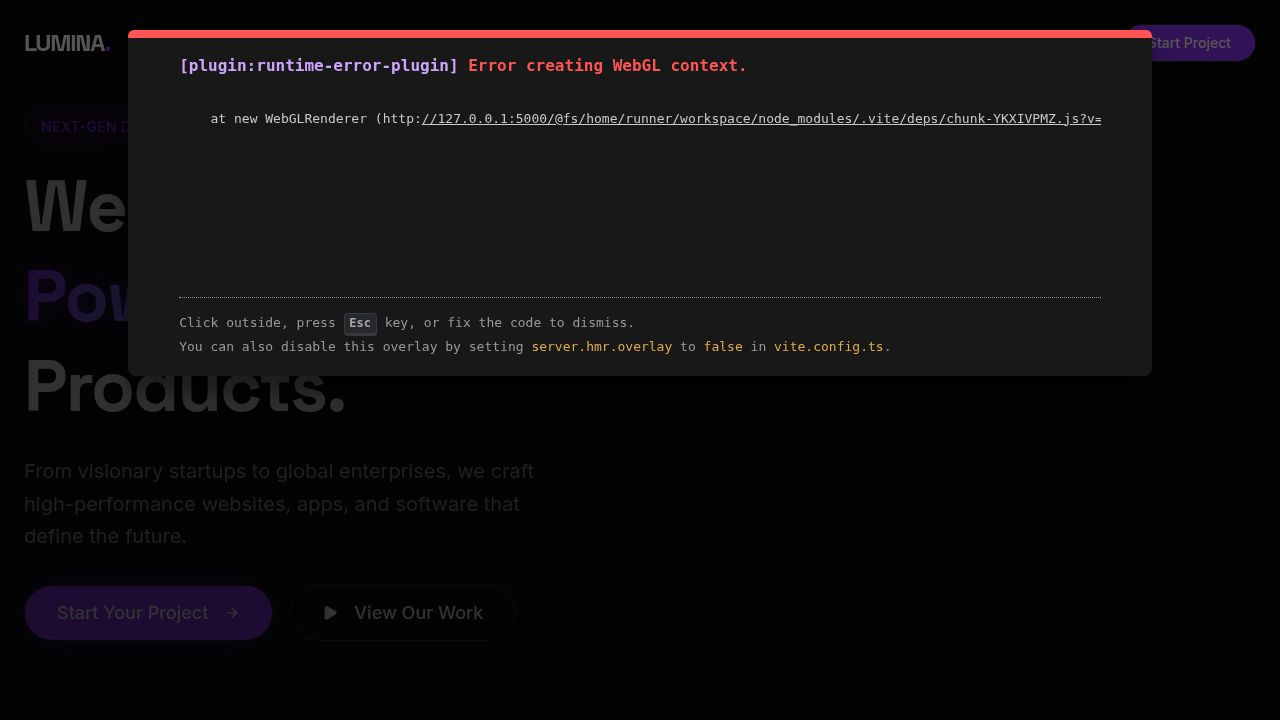
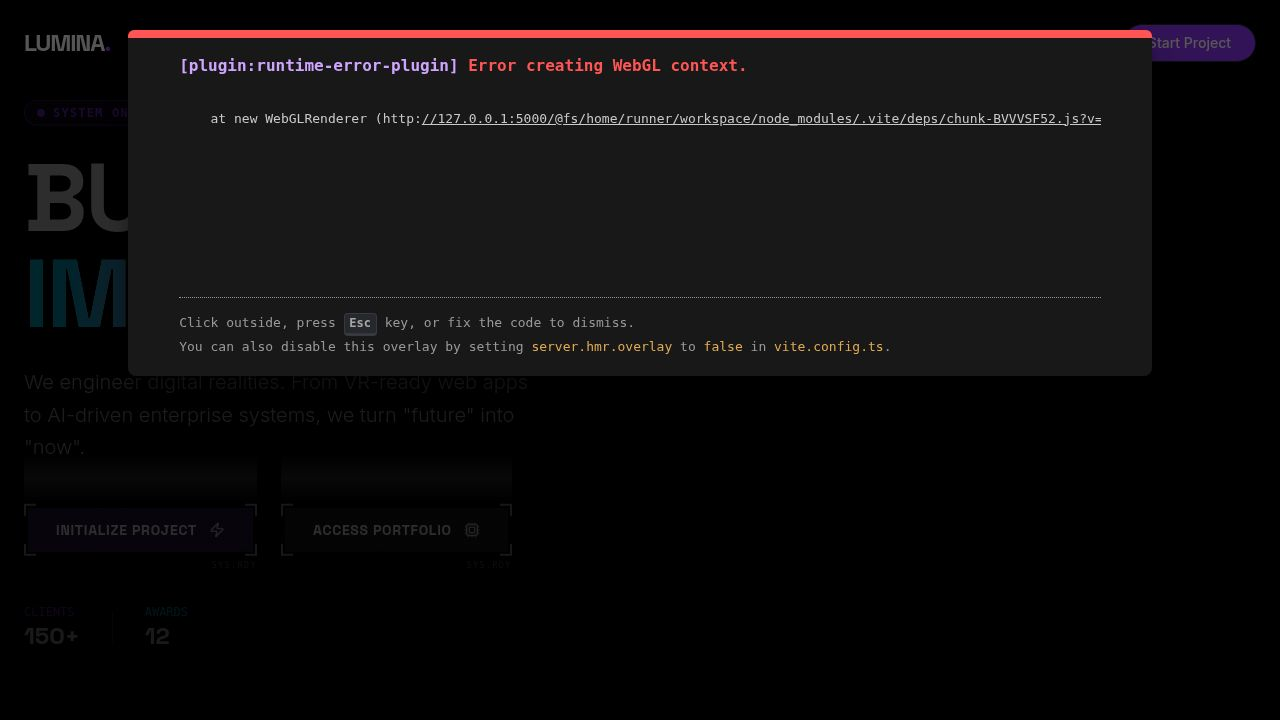
Enhance website with futuristic 3D elements and interactive holographic buttons
Introduce a new HolographicButton component, enhance the 3D scene with a moving grid and floating geometry, and update the hero section with a 'System Online' status and gradient animated headline.

Replit-Commit-Author: Agent
Replit-Commit-Session-Id: 62179b3c-a448-4548-ba3e-8a49a3264e93
Replit-Commit-Checkpoint-Type: full_checkpoint
Replit-Commit-Event-Id: 106dd3c8-82a2-464e-b898-4956af63f821
Replit-Commit-Screenshot-Url: https://storage.googleapis.com/screenshot-production-us-central1/b6b3e9dc-332f-4f14-a488-fbce4b9bd46f/62179b3c-a448-4548-ba3e-8a49a3264e93/L3Idws9
Replit-Helium-Checkpoint-Created: true

diff --git a/client/src/components/hero.tsx b/client/src/components/hero.tsx
@@ -1,16 +1,17 @@
 import { motion } from "framer-motion";
-import { ArrowRight, Play } from "lucide-react";
-import { Button } from "@/components/ui/button";
+import { ArrowRight, Play, Cpu, Zap } from "lucide-react";
+import { HolographicButton } from "@/components/ui/holographic-button";
 import Scene from "./scene";
 
 export default function Hero() {
   return (
-    <section className="relative w-full h-screen flex items-center justify-center overflow-hidden">
+    <section className="relative w-full h-screen flex items-center justify-center overflow-hidden bg-black">
       {/* 3D Background */}
       <Scene />
       
-      {/* Gradient Overlay for Readability */}
-      <div className="absolute inset-0 bg-gradient-to-b from-background/10 via-background/50 to-background z-10 pointer-events-none" />
+      {/* Vignette & Gradient Overlay */}
+      <div className="absolute inset-0 bg-gradient-to-t from-black via-transparent to-black/40 z-10 pointer-events-none" />
+      <div className="absolute inset-0 bg-[radial-gradient(circle_at_center,transparent_0%,rgba(0,0,0,0.6)_100%)] z-10 pointer-events-none" />
 
       {/* Content */}
       <div className="container relative z-20 px-6 mx-auto text-center md:text-left grid md:grid-cols-2 gap-12 items-center">
@@ -20,43 +21,49 @@ export default function Hero() {
           transition={{ duration: 0.8, ease: "easeOut" }}
           className="max-w-3xl"
         >
-          <div className="inline-block mb-4 px-4 py-1.5 rounded-full border border-primary/30 bg-primary/10 backdrop-blur-sm">
-            <span className="text-primary text-sm font-semibold tracking-wide uppercase">
-              Next-Gen Digital Agency
-            </span>
+          <div className="flex items-center gap-2 mb-6">
+             <div className="px-3 py-1 rounded-full border border-primary/50 bg-primary/10 backdrop-blur-md flex items-center gap-2">
+                <div className="w-2 h-2 rounded-full bg-primary animate-pulse" />
+                <span className="text-primary text-xs font-mono font-bold tracking-widest uppercase">
+                  System Online v2.0
+                </span>
+             </div>
           </div>
           
-          <h1 className="text-5xl md:text-7xl font-bold font-display tracking-tight leading-tight mb-6">
-            We Build <span className="text-transparent bg-clip-text bg-gradient-to-r from-primary to-secondary text-glow">Powerful</span> Digital Products.
+          <h1 className="text-5xl md:text-8xl font-bold font-display tracking-tight leading-none mb-6 text-transparent bg-clip-text bg-gradient-to-br from-white via-white to-white/50 drop-shadow-2xl">
+            BUILD THE <br />
+            <span className="text-transparent bg-clip-text bg-gradient-to-r from-cyan-400 to-purple-600 animate-gradient-x">IMPOSSIBLE</span>
           </h1>
           
-          <p className="text-lg md:text-xl text-muted-foreground mb-8 max-w-lg leading-relaxed">
-            From visionary startups to global enterprises, we craft high-performance websites, apps, and software that define the future.
+          <p className="text-lg md:text-xl text-gray-400 mb-10 max-w-lg leading-relaxed font-light">
+            We engineer digital realities. From VR-ready web apps to AI-driven enterprise systems, we turn "future" into "now".
           </p>
           
-          <div className="flex flex-col sm:flex-row gap-4 justify-center md:justify-start">
-            <Button 
-              size="lg" 
-              className="bg-primary hover:bg-primary/90 text-white rounded-full px-8 h-14 text-lg shadow-[0_0_20px_rgba(139,44,245,0.3)]"
-            >
-              Start Your Project
-              <ArrowRight className="ml-2 w-5 h-5" />
-            </Button>
-            <Button 
-              variant="outline" 
-              size="lg" 
-              className="border-white/20 hover:bg-white/10 text-white rounded-full px-8 h-14 text-lg backdrop-blur-sm"
-            >
-              <Play className="mr-2 w-4 h-4 fill-current" />
-              View Our Work
-            </Button>
+          <div className="flex flex-col sm:flex-row gap-6 justify-center md:justify-start">
+            <HolographicButton variant="primary" icon={<Zap className="w-4 h-4" />}>
+              Initialize Project
+            </HolographicButton>
+            
+            <HolographicButton variant="secondary" icon={<Cpu className="w-4 h-4" />}>
+              Access Portfolio
+            </HolographicButton>
+          </div>
+          
+          <div className="mt-12 flex items-center gap-8 opacity-60">
+             <div className="flex flex-col">
+                <span className="text-xs font-mono text-primary">CLIENTS</span>
+                <span className="text-2xl font-bold font-display">150+</span>
+             </div>
+             <div className="w-px h-8 bg-white/20" />
+             <div className="flex flex-col">
+                <span className="text-xs font-mono text-cyan-400">AWARDS</span>
+                <span className="text-2xl font-bold font-display">12</span>
+             </div>
           </div>
         </motion.div>
 
-        {/* Right side is visual (handled by 3D scene), but we can add floating UI elements here for depth */}
-        <div className="hidden md:block relative h-full">
-           {/* Abstract UI Elements could go here if not fully relying on 3D */}
-        </div>
+        {/* Right side spacer for 3D elements */}
+        <div className="hidden md:block relative h-full"></div>
       </div>
       
       {/* Scroll Indicator */}
@@ -66,8 +73,8 @@ export default function Hero() {
         transition={{ delay: 1, duration: 1 }}
         className="absolute bottom-10 left-1/2 -translate-x-1/2 z-20 flex flex-col items-center gap-2"
       >
-        <span className="text-xs text-white/50 uppercase tracking-widest">Scroll</span>
-        <div className="w-[1px] h-12 bg-gradient-to-b from-primary to-transparent" />
+        <span className="text-[10px] font-mono text-white/40 uppercase tracking-[0.3em] animate-pulse">Scroll to Explore</span>
+        <div className="w-[1px] h-16 bg-gradient-to-b from-primary via-cyan-500 to-transparent opacity-50" />
       </motion.div>
     </section>
   );

diff --git a/client/src/components/scene.tsx b/client/src/components/scene.tsx
@@ -1,6 +1,6 @@
 import { Canvas, useFrame } from "@react-three/fiber";
-import { Float, MeshDistortMaterial, PerspectiveCamera } from "@react-three/drei";
-import { useRef } from "react";
+import { Float, MeshDistortMaterial, PerspectiveCamera, Grid, Stars, Sparkles, Text } from "@react-three/drei";
+import { useRef, useMemo } from "react";
 import * as THREE from "three";
 
 function AnimatedSphere() {
@@ -8,65 +8,129 @@ function AnimatedSphere() {
 
   useFrame((state) => {
     if (meshRef.current) {
-      meshRef.current.rotation.x = state.clock.getElapsedTime() * 0.2;
-      meshRef.current.rotation.y = state.clock.getElapsedTime() * 0.3;
+      meshRef.current.rotation.x = state.clock.getElapsedTime() * 0.15;
+      meshRef.current.rotation.y = state.clock.getElapsedTime() * 0.25;
     }
   });
 
   return (
-    <Float speed={2} rotationIntensity={1} floatIntensity={2}>
-      <mesh ref={meshRef} position={[2, 0, 0]} scale={1.8}>
-        <icosahedronGeometry args={[1, 15]} />
-        <MeshDistortMaterial
+    <Float speed={2} rotationIntensity={1} floatIntensity={1.5}>
+      <mesh ref={meshRef} position={[2, 0, 0]} scale={2}>
+        <icosahedronGeometry args={[1, 4]} /> {/* Lower detail for wireframe look */}
+        <meshStandardMaterial
           color="#8b2cf5"
+          wireframe
+          transparent
+          opacity={0.3}
+          emissive="#8b2cf5"
+          emissiveIntensity={0.5}
+        />
+      </mesh>
+      {/* Inner solid core */}
+      <mesh position={[2, 0, 0]} scale={1.2}>
+         <icosahedronGeometry args={[1, 15]} />
+         <MeshDistortMaterial
+          color="#00ffff"
           attach="material"
-          distort={0.4}
-          speed={2}
-          roughness={0.2}
-          metalness={0.8}
+          distort={0.6}
+          speed={3}
+          roughness={0.1}
+          metalness={1}
+          envMapIntensity={1}
         />
       </mesh>
     </Float>
   );
 }
 
-function FloatingCube({ position, color }: { position: [number, number, number]; color: string }) {
+function FloatingGeometry({ position, color, type }: { position: [number, number, number]; color: string, type: 'box' | 'torus' | 'cone' }) {
   const meshRef = useRef<THREE.Mesh>(null);
   
   useFrame((state) => {
     if (meshRef.current) {
       meshRef.current.rotation.x += 0.01;
-      meshRef.current.rotation.y += 0.01;
+      meshRef.current.rotation.y += 0.015;
     }
   });
 
+  const Geometry = useMemo(() => {
+    switch(type) {
+        case 'box': return <boxGeometry args={[0.5, 0.5, 0.5]} />;
+        case 'torus': return <torusGeometry args={[0.3, 0.1, 16, 32]} />;
+        case 'cone': return <coneGeometry args={[0.3, 0.6, 32]} />;
+        default: return <boxGeometry args={[0.5, 0.5, 0.5]} />;
+    }
+  }, [type]);
+
   return (
-    <Float speed={4} rotationIntensity={2} floatIntensity={1}>
+    <Float speed={3} rotationIntensity={2} floatIntensity={1}>
       <mesh ref={meshRef} position={position}>
-        <boxGeometry args={[0.5, 0.5, 0.5]} />
-        <meshStandardMaterial color={color} roughness={0.1} metalness={0.8} transparent opacity={0.8} />
+        {Geometry}
+        <meshPhysicalMaterial 
+            color={color} 
+            roughness={0} 
+            metalness={0.8} 
+            transmission={0.5} 
+            thickness={1}
+            clearcoat={1}
+        />
       </mesh>
     </Float>
   );
 }
 
+function MovingGrid() {
+    const gridRef = useRef<THREE.Mesh>(null);
+    useFrame((state) => {
+        if(gridRef.current) {
+            gridRef.current.position.z = (state.clock.getElapsedTime() * 0.5) % 1;
+        }
+    })
+    return (
+        <group rotation={[Math.PI / 2.5, 0, 0]} position={[0, -2, 0]}>
+            <Grid 
+                ref={gridRef}
+                args={[20, 20]} 
+                cellSize={0.5} 
+                cellThickness={0.5} 
+                cellColor="#8b2cf5" 
+                sectionSize={2} 
+                sectionThickness={1} 
+                sectionColor="#00ffff" 
+                fadeDistance={15} 
+                fadeStrength={1} 
+                infiniteGrid
+            />
+        </group>
+    )
+}
+
 export default function Scene() {
   return (
     <div className="absolute inset-0 z-0">
-      <Canvas>
-        <PerspectiveCamera makeDefault position={[0, 0, 5]} />
-        <ambientLight intensity={0.5} />
-        <pointLight position={[10, 10, 10]} intensity={1.5} color="#00ffff" />
-        <pointLight position={[-10, -10, -10]} intensity={0.5} color="#8b2cf5" />
+      <Canvas gl={{ antialias: true, toneMapping: THREE.ReinhardToneMapping, toneMappingExposure: 1.5 }}>
+        <PerspectiveCamera makeDefault position={[0, 0, 6]} fov={50} />
         
+        <color attach="background" args={['#050505']} />
+        <fog attach="fog" args={['#050505', 5, 20]} />
+
+        <ambientLight intensity={0.2} />
+        <pointLight position={[10, 10, 10]} intensity={2} color="#00ffff" />
+        <pointLight position={[-10, -5, -10]} intensity={2} color="#8b2cf5" />
+        <spotLight position={[0, 10, 0]} intensity={1} angle={0.5} penumbra={1} color="#ffffff" />
+
+        <Stars radius={100} depth={50} count={5000} factor={4} saturation={0} fade speed={1} />
+        <Sparkles count={50} scale={5} size={2} speed={0.4} opacity={0.5} color="#00ffff" />
+
         <AnimatedSphere />
         
-        <FloatingCube position={[-2, 1.5, -1]} color="#00ffff" />
-        <FloatingCube position={[-2.5, -1, 0.5]} color="#8b2cf5" />
-        <FloatingCube position={[3, 2, -2]} color="#00ffff" />
-        <FloatingCube position={[1, -2, -1]} color="#8b2cf5" />
+        <FloatingGeometry position={[-2.5, 1.5, -1]} color="#00ffff" type="torus" />
+        <FloatingGeometry position={[-2, -1, 0.5]} color="#8b2cf5" type="box" />
+        <FloatingGeometry position={[3.5, 2, -2]} color="#00ffff" type="cone" />
+        <FloatingGeometry position={[1.5, -2.5, -1]} color="#8b2cf5" type="torus" />
         
-        {/* Background Particles could go here */}
+        <MovingGrid />
+        
       </Canvas>
     </div>
   );

diff --git a/client/src/components/ui/holographic-button.tsx b/client/src/components/ui/holographic-button.tsx
@@ -1,0 +1,88 @@
+import { motion, HTMLMotionProps } from "framer-motion";
+import { useState } from "react";
+import { cn } from "@/lib/utils";
+
+interface HolographicButtonProps extends HTMLMotionProps<"button"> {
+  children: React.ReactNode;
+  variant?: "primary" | "secondary";
+  className?: string;
+  icon?: React.ReactNode;
+}
+
+export function HolographicButton({ 
+  children, 
+  variant = "primary", 
+  className,
+  icon,
+  ...props 
+}: HolographicButtonProps) {
+  const [isHovered, setIsHovered] = useState(false);
+
+  const isPrimary = variant === "primary";
+  
+  return (
+    <motion.button
+      className={cn(
+        "relative group px-8 py-4 bg-transparent border-0 outline-none cursor-pointer overflow-visible",
+        className
+      )}
+      onHoverStart={() => setIsHovered(true)}
+      onHoverEnd={() => setIsHovered(false)}
+      whileHover={{ scale: 1.05 }}
+      whileTap={{ scale: 0.95 }}
+      {...props}
+    >
+      {/* HUD Corner Brackets */}
+      <div className="absolute top-0 left-0 w-3 h-3 border-t-2 border-l-2 border-white/50 transition-all duration-300 group-hover:w-full group-hover:h-full group-hover:border-primary/80" />
+      <div className="absolute top-0 right-0 w-3 h-3 border-t-2 border-r-2 border-white/50 transition-all duration-300 group-hover:w-full group-hover:h-full group-hover:border-primary/80" />
+      <div className="absolute bottom-0 left-0 w-3 h-3 border-b-2 border-l-2 border-white/50 transition-all duration-300 group-hover:w-full group-hover:h-full group-hover:border-primary/80" />
+      <div className="absolute bottom-0 right-0 w-3 h-3 border-b-2 border-r-2 border-white/50 transition-all duration-300 group-hover:w-full group-hover:h-full group-hover:border-primary/80" />
+
+      {/* Background with Glass Effect */}
+      <div className={cn(
+        "absolute inset-1 backdrop-blur-md transition-all duration-300",
+        isPrimary 
+          ? "bg-primary/20 group-hover:bg-primary/30" 
+          : "bg-white/5 group-hover:bg-white/10"
+      )} />
+
+      {/* Scanline Effect */}
+      <motion.div
+        className="absolute inset-0 bg-gradient-to-b from-transparent via-white/20 to-transparent z-10"
+        initial={{ y: "-100%" }}
+        animate={isHovered ? { y: "100%" } : { y: "-100%" }}
+        transition={{ 
+          repeat: Infinity, 
+          duration: 1.5, 
+          ease: "linear",
+          repeatDelay: 0.5 
+        }}
+      />
+
+      {/* Grid Pattern Overlay */}
+      <div className="absolute inset-1 bg-[url('https://grainy-gradients.vercel.app/noise.svg')] opacity-20 z-0 pointer-events-none mix-blend-overlay" />
+      
+      {/* Content */}
+      <div className="relative z-20 flex items-center justify-center gap-3 font-display font-bold tracking-wider uppercase text-sm">
+        <span className={cn(
+          "text-white transition-all duration-300",
+          isHovered && "text-glow drop-shadow-[0_0_8px_rgba(255,255,255,0.8)]"
+        )}>
+          {children}
+        </span>
+        {icon && (
+          <motion.span
+            animate={isHovered ? { x: 4, opacity: 1 } : { x: 0, opacity: 0.8 }}
+          >
+            {icon}
+          </motion.span>
+        )}
+      </div>
+
+      {/* Random Tech Deco Text */}
+      <div className="absolute -bottom-4 right-0 text-[8px] font-mono text-white/30 tracking-[0.2em]">
+        SYS.RDY
+      </div>
+    </motion.button>
+  );
+}
